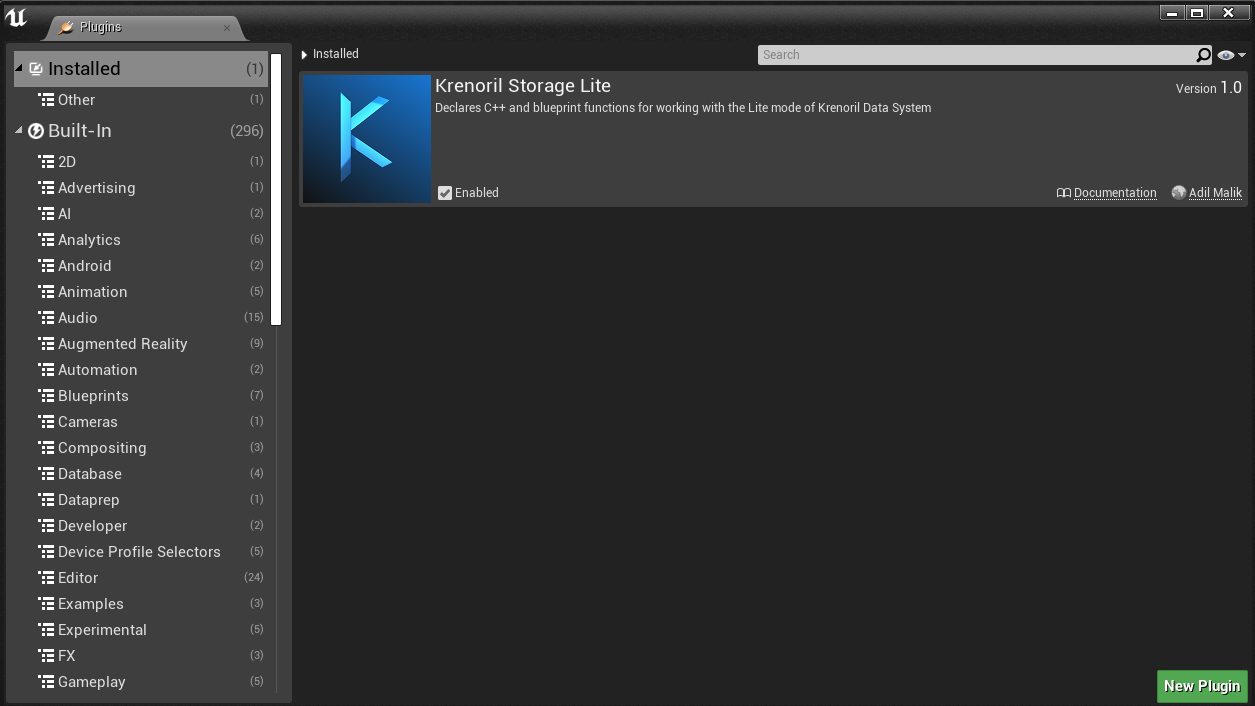
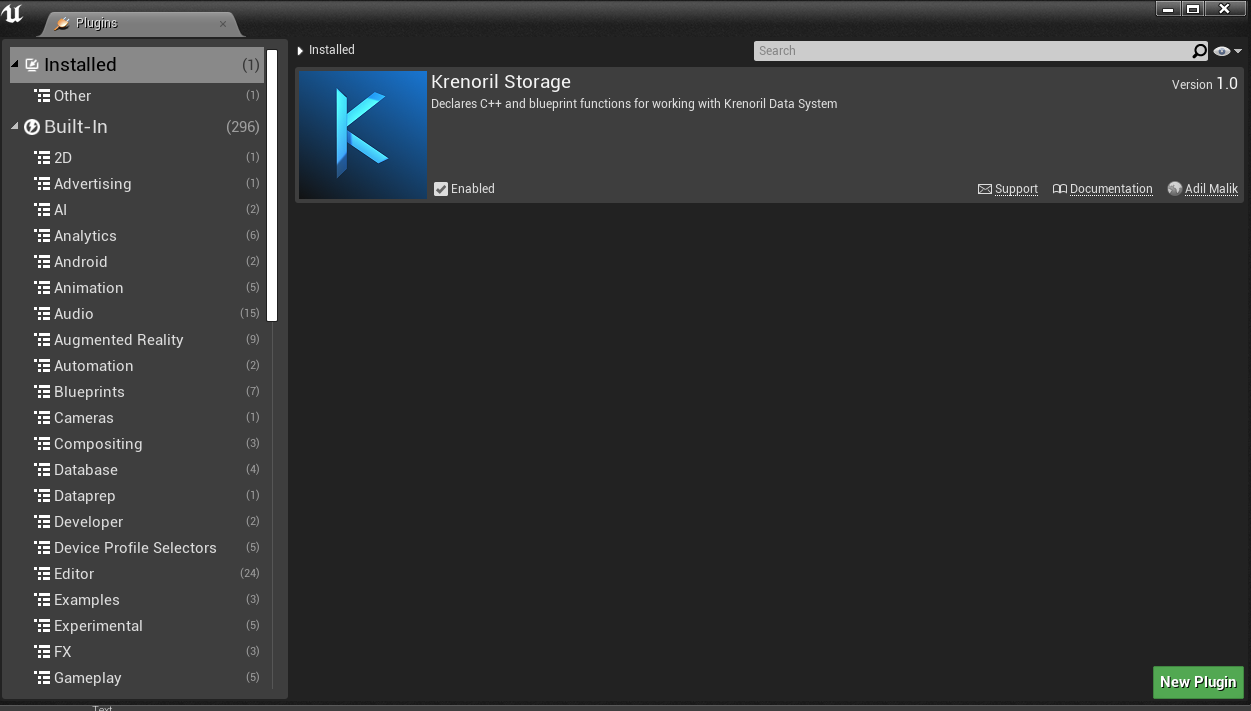
Rename plugin

Changed region(s): [[0.0, 0.0, 1.0, 1.0], [0.1871, 0.6544, 0.2182, 0.6856]]

diff --git a/documentation/developers/setup.html b/documentation/developers/setup.html
@@ -56,12 +56,12 @@
 
 			<div>
 				<h3>
-					1. Enable the "KrenorilStorageLite" plugin
+					1. Enable the "Krenoril Storage" plugin
 				</h3>
 				<div>
-					Once you have installed the "Krenoril Storage Lite" plugin from the Epic Games Launcher, you must enable it for your project. Open up the plugin browser from the UE4 editor, and search for the "Krenoril Storage Lite"
+					Once you have installed the "Krenoril Storage" plugin from the Epic Games Launcher, you must enable it for your project. Open up the plugin browser from the UE4 editor, and search for the "Krenoril Storage"
 					plugin. Check the "Enabled" checkbox to enable this plugin for your project.<br />
-					<img src="setupImages/litePlugins1.png" alt="Krenoril Storage Lite plugin enabled in UE4 editor">
+					<img src="setupImages/litePlugins1.png" alt="Krenoril Storage plugin enabled in UE4 editor">
 					</img>
 					<br /><br />
 
